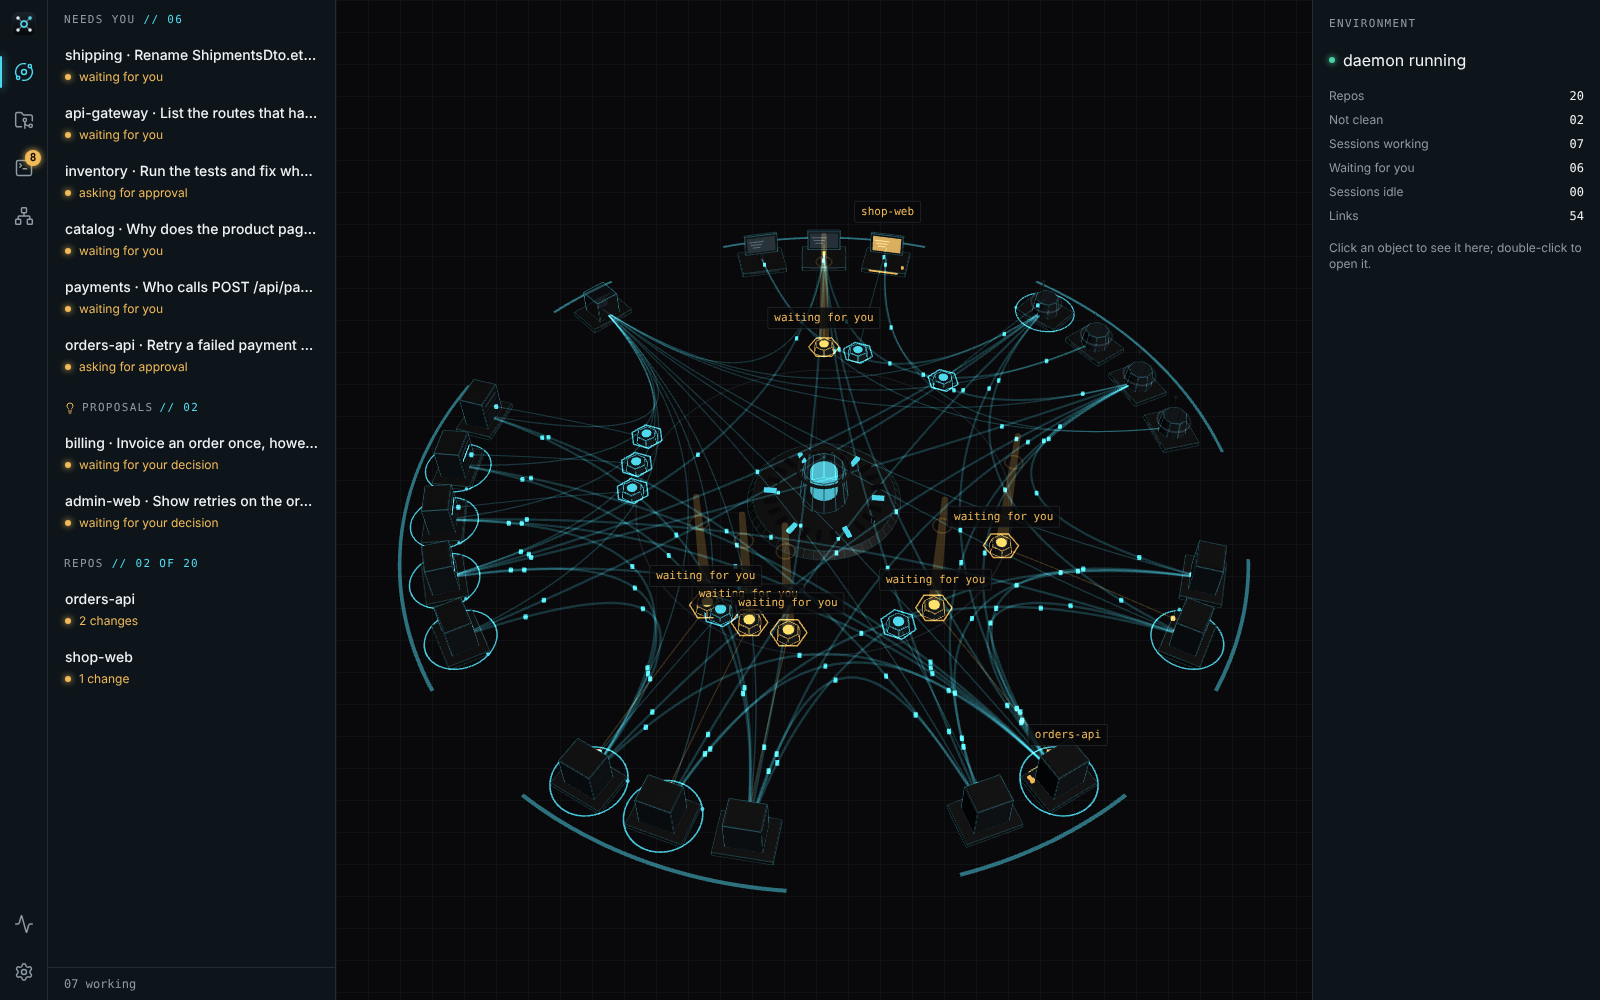
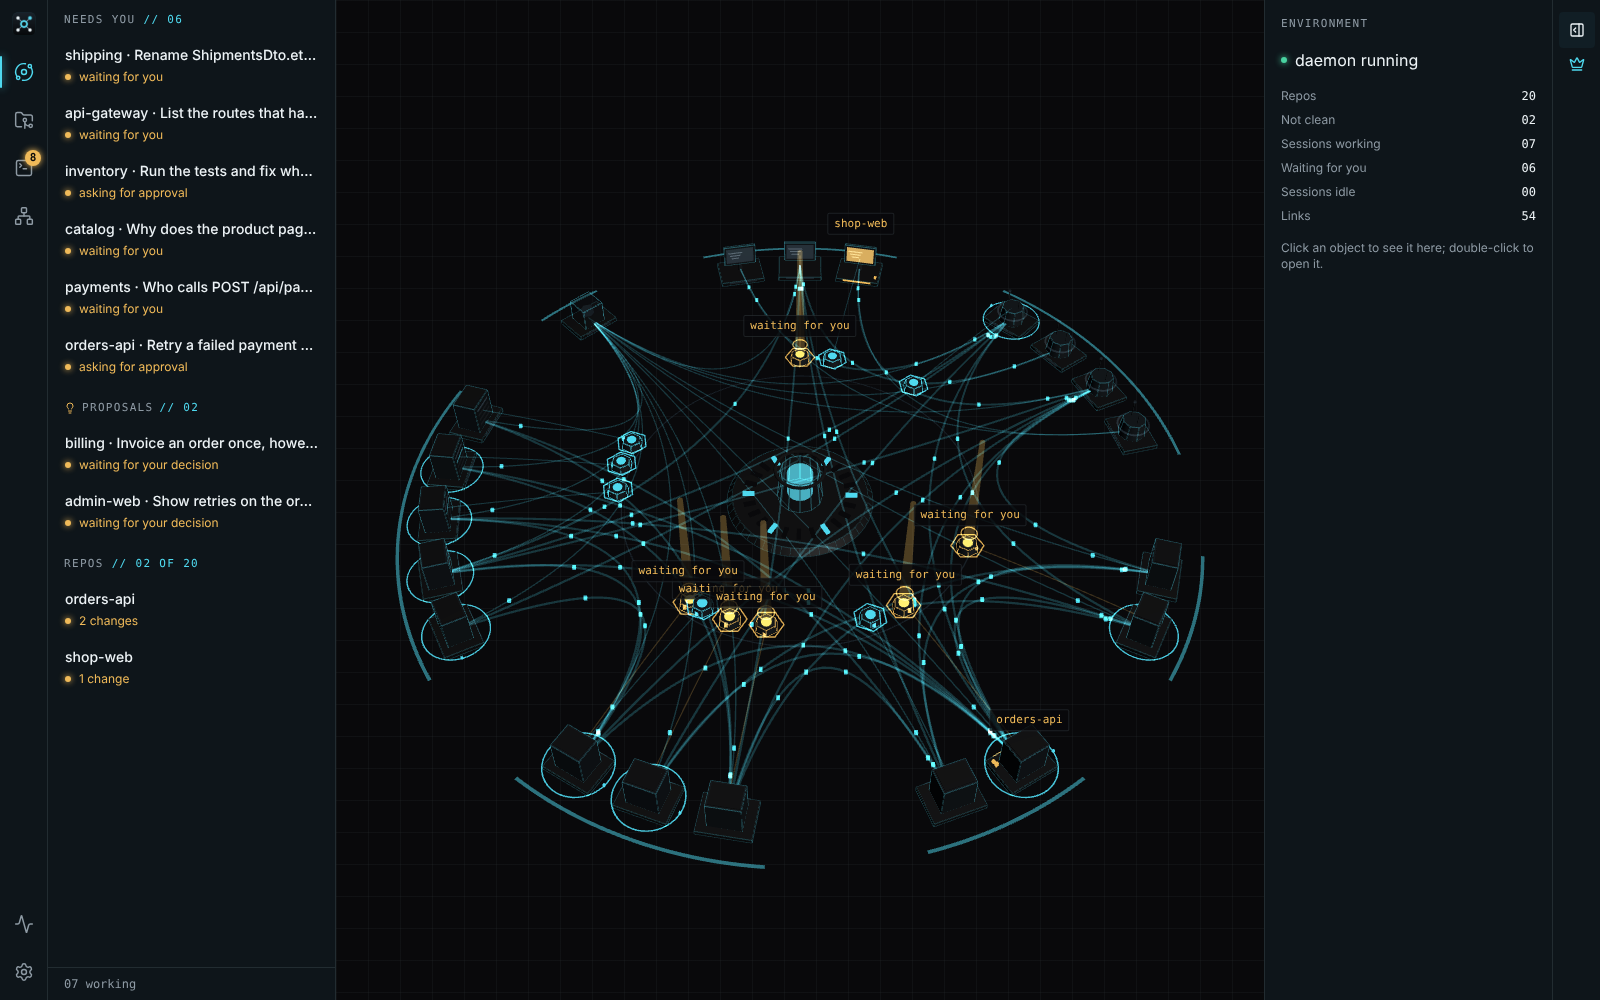
Retake the screenshots with the supervisor panel folded
Main now pins the supervisor panel on the right of every view; folded to
its strip, it leaves the sessions grid and the dashboard their width.

Claude-Session: https://claude.ai/code/session_0142GKUPNYYPb6Daias3uQRU

Changed region(s): [[0.25, 0.217, 0.7812, 0.899], [0.7812, 0.093, 0.875, 0.279], [0.8125, 0.0, 0.875, 0.062]]

diff --git a/apps/docs/scripts/screenshots.ts b/apps/docs/scripts/screenshots.ts
@@ -143,6 +143,8 @@ try {
     for (const [name, show] of Object.entries(SHOTS)) {
       const page = await browser.newPage({ viewport: VIEWPORT, colorScheme: "dark" });
       await page.goto(url);
+      // The supervisor's panel is folded to its strip, so the view gets the width; the supervisor has a page of its own.
+      await page.getByRole("button", { name: "Fold the supervisor panel" }).click();
       await settle(page, 2500);
       await show(page);
       await shot(page, name);
